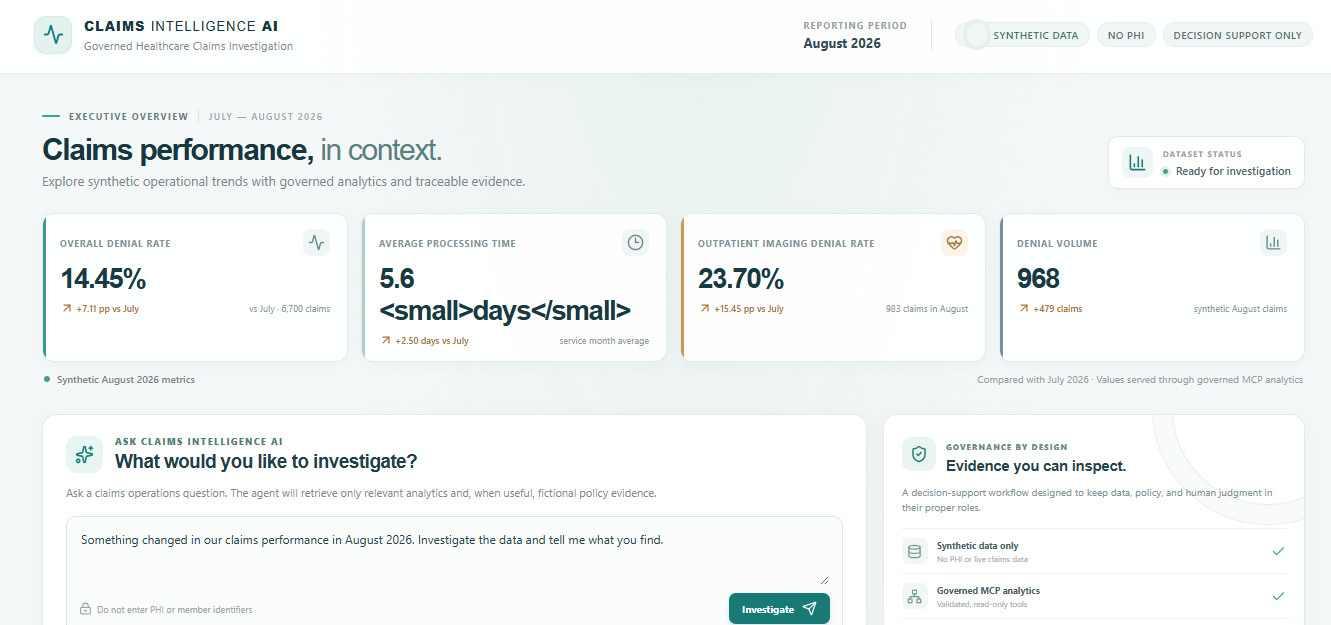
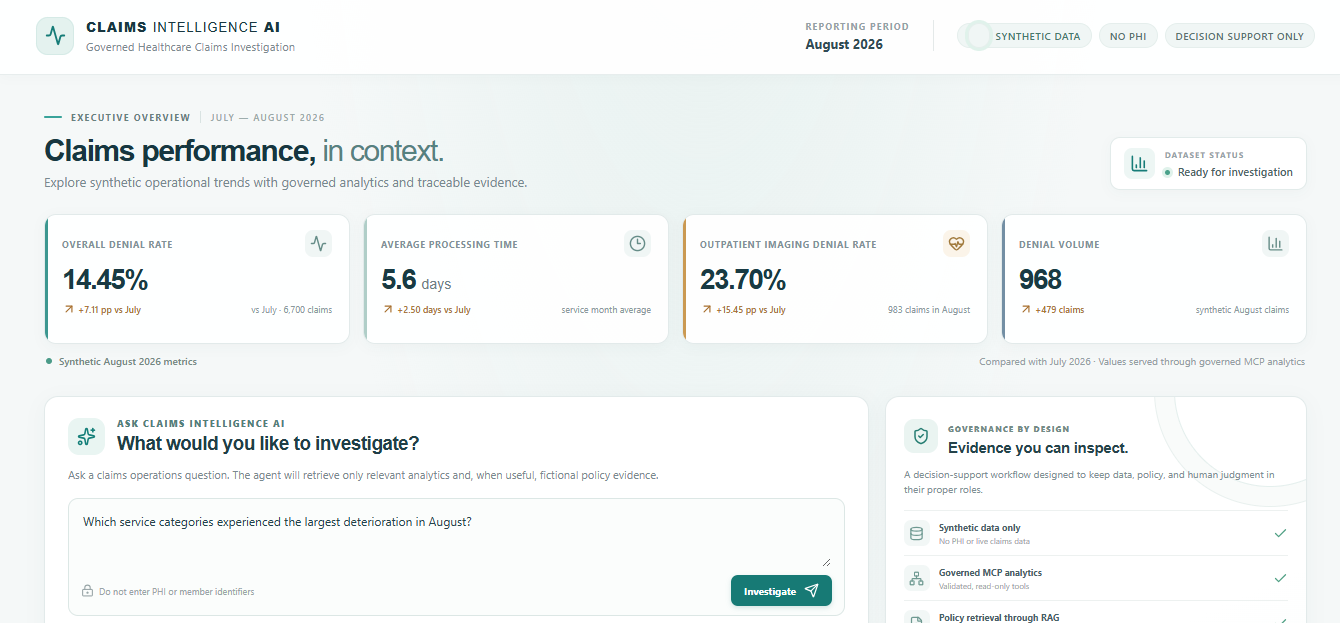
Refresh portfolio README and application screenshots

diff --git a/README.md b/README.md
@@ -1,149 +1,252 @@
 # Claims Intelligence AI
 
-## Purpose
+> **Governed healthcare claims investigation with agentic AI, MCP, RAG, deterministic analytics, and an observable evidence trail — built entirely with synthetic data.**
 
-Claims Intelligence AI is a portfolio project for governed healthcare analytics using entirely synthetic claims data. It includes a deterministic analytics layer, local MCP adapter, local policy RAG, an OpenAI tool-calling investigation agent, and a local React executive interface.
+Claims Intelligence AI is a portfolio demonstration of how AI can help healthcare operations teams investigate claims-performance questions without turning the model into an autonomous decision-maker. The application combines deterministic claims analytics, a governed Model Context Protocol (MCP) layer, retrieval-augmented generation (RAG) over fictional internal policy, an OpenAI tool-calling investigation agent, and a React executive interface.
 
-## Synthetic data and intended use
+The core design principle is simple: **AI can help assemble and interpret evidence, but consequential healthcare decisions remain with people.**
 
-All records generated by this project are fictional. Identifiers are synthetic; there are no names, exact dates of birth, addresses, contact details, government identifiers, medical record numbers, or real provider names/NPIs. Do not load real protected health information (PHI) into this repository or its future components.
+## What this project demonstrates
 
-This is not a clinical decision system and not an autonomous claims adjudication system. Data can support analysis of patterns, associations, and operational areas for investigation. It cannot establish fraud, abuse, medical necessity, improper clinical care, provider intent, or member fault.
+- Natural-language investigation of claims performance and denial trends.
+- Six governed, read-only MCP analytics capabilities backed by deterministic SQLite queries.
+- RAG over a fictional internal policy corpus with passage-level provenance.
+- Agentic tool selection across structured operational evidence and unstructured policy evidence.
+- Explicit separation of observed facts, interpretation, policy context, and evidence gaps.
+- An observable investigation trace without exposing private model reasoning.
+- Synthetic-data, no-PHI, aggregate-only, human-decision-authority guardrails.
 
-## Architecture direction
+## Executive experience
+
+The executive dashboard provides a business-first view of synthetic claims performance before an investigation begins. August 2026 metrics highlight denial rate, processing time, outpatient imaging denial rate, and denial volume, while the interface makes the synthetic-data and decision-support boundaries visible.
+
+![Claims Intelligence Executive Dashboard](docs/screenshots/dashboard-overview.png)
+
+## AI-assisted claims investigation
+
+Users can ask a claims-operations question in natural language. The investigation agent determines which governed capabilities are relevant, retrieves operational evidence through MCP, retrieves fictional policy passages through RAG when useful, and synthesizes the evidence into an executive-friendly response.
+
+The response intentionally distinguishes **observed operational facts** from **evidence-based interpretation** and identifies what the available evidence cannot establish.
+
+![AI Claims Investigation](docs/screenshots/agent-investigation.png)
+
+## Observable evidence and context
+
+The application is designed to avoid a black-box experience. Each investigation exposes an observable evidence path showing which governed capabilities were used, while keeping hidden chain-of-thought private.
+
+The UI can show validated MCP parameters, aggregate result previews, retrieved fictional policy passages, evidence gaps, and responsible-use boundaries. This provides a practical example of context engineering: supplying the model with the smallest relevant set of structured facts and policy evidence needed for the question rather than placing an entire database or policy corpus into model context.
+
+![MCP and RAG Context Trace](docs/screenshots/Context-trace.png)
+
+## Architecture
+
+```text
+                         ┌──────────────────────────────┐
+                         │   React / Vite Executive UI  │
+                         └──────────────┬───────────────┘
+                                        │ /api
+                         ┌──────────────▼───────────────┐
+                         │  Loopback Express API        │
+                         │  validation + orchestration  │
+                         └──────────────┬───────────────┘
+                                        │
+                         ┌──────────────▼───────────────┐
+                         │ Claims Investigation Agent   │
+                         │ OpenAI tool-calling loop     │
+                         └─────────┬───────────┬────────┘
+                                   │           │
+                          Structured           Unstructured
+                           evidence              evidence
+                                   │           │
+                    ┌──────────────▼───┐   ┌──▼────────────────┐
+                    │ Governed MCP     │   │ Policy RAG        │
+                    │ analytics tools  │   │ retrieval         │
+                    └──────────┬───────┘   └──┬────────────────┘
+                               │              │
+                    ┌──────────▼───────┐   ┌──▼────────────────┐
+                    │ Synthetic SQLite │   │ Fictional policy  │
+                    │ claims data      │   │ documents/index   │
+                    └──────────────────┘   └───────────────────┘
+```
+
+### Repository structure
 
 ```text
 data/                 Local generated SQLite database (ignored by Git)
-documents/            Reserved for future synthetic reference documents
+documents/            Fictional internal policy documents
 src/database/         Schema, SQLite connection, deterministic generator, validation
 src/tools/            Deterministic read-only analytics functions and verification
 src/mcp/              Local stdio MCP server and protocol verification client
-src/rag/              Fictional policy ingestion, embeddings, index, retrieval, and verification
-src/context/          Reserved for future context engineering
+src/rag/              Policy ingestion, embeddings, index, retrieval, and verification
 src/agent/            OpenAI tool-calling claims investigation agent and verification
 src/http/             Loopback-only API for dashboard metrics and investigations
 app/                  React/Vite executive investigation interface
-docs/                 Data and design notes
+docs/                 Data/design notes and portfolio screenshots
 ```
 
-SQLite is the current structured persistence layer. Policy RAG is a separate unstructured evidence path. Both are exposed to the agent through MCP analytics and governed policy search. The local API and React interface present the agent's result and observable evidence trace; they do not implement separate claims logic.
+SQLite is the structured persistence layer. MCP is the governed interface to operational analytics. RAG is a separate unstructured evidence path for fictional internal policy. The agent can select capabilities from both paths while keeping operational facts and policy evidence separately identifiable.
 
 ## Responsible AI boundaries
 
-- Use only the provided fictional, synthetic data in this project.
-- Treat observed relationships as associations that need investigation, not proof of cause or wrongdoing.
-- Keep humans responsible for review and decisions in any future workflow.
-- Do not make or recommend clinical, coverage, payment, fraud, provider-intent, or member-fault determinations from these example records.
+This project uses **fictional synthetic data only**. It is not a clinical decision system and is not an autonomous claims adjudication system.
 
-## Requirements and setup
+- Do not load real PHI, member identifiers, credentials, or live claims data into the demo.
+- Treat observed relationships as associations requiring investigation, not proof of causation or wrongdoing.
+- Keep humans responsible for clinical, coverage, payment, fraud, provider-intent, member-fault, and other consequential decisions.
+- Operational analytics are read-only and population/member outputs remain aggregated.
+- Retrieved policy passages are fictional internal examples, not CMS, Medicare, Medicaid, HIPAA, payer, legal, clinical, or regulatory requirements.
+- The observable trace records tool and evidence use; it does **not** expose private model reasoning or chain-of-thought.
 
-Requires Node.js and npm. Install dependencies:
+## Deterministic analytics layer
+
+`src/tools/analytics.ts` provides six read-only, parameterized analytics functions:
+
+- `getClaimsPerformance`
+- `getDenialAnalysis`
+- `getProviderPerformance`
+- `getCostUtilization`
+- `getAuthorizationAnalysis`
+- `getMemberPopulationImpact`
+
+The functions use allow-listed filters and return aggregated observations. They do not produce causal or wrongdoing conclusions. PMPM is intentionally not calculated because the synthetic dataset does not contain an enrollment-period/member-month denominator.
+
+Run the analytics verification suite with:
+
+```sh
+npm run analytics:verify
+```
+
+## Governed MCP analytics
+
+The local stdio Model Context Protocol server exposes exactly the six approved analytics functions to MCP-compatible applications. MCP provides a protocol boundary through which the investigation agent can discover and invoke governed capabilities without directly importing the database or analytics implementation.
+
+Inputs use strict schemas, unknown fields are rejected, and there is **no arbitrary SQL tool**. Database access remains read-only.
+
+```sh
+npm run mcp:server
+npm run mcp:verify
+```
+
+`mcp:verify` launches the MCP server, discovers its tools, exercises representative calls, compares results with direct deterministic analytics, and verifies that arbitrary SQL input is rejected.
+
+## Fictional policy corpus and RAG
+
+Six Markdown documents under `documents/` form the fictional internal operations policy corpus. Each is explicitly identified as:
+
+> **FICTIONAL POLICY — CREATED FOR SYNTHETIC PORTFOLIO DEMONSTRATION ONLY**
+
+RAG supplies relevant policy passages as a separate evidence source:
+
+```text
+Structured:   Claims Agent -> MCP -> deterministic analytics -> SQLite
+Unstructured: Claims Agent -> RAG retrieval -> fictional policy documents
+```
+
+Policy ingestion identifies document titles and section headings, chunks content within sections, and retains filename/title/heading provenance. The configured embedding model is `text-embedding-3-small`. The local vector index is stored at `vector-indexes/policy-index.json` and is excluded from Git.
+
+Retrieval embeds the question, computes cosine similarity locally, applies the configured similarity threshold, and returns only the top matching passages. Similarity is a ranking signal — not proof that a passage is authoritative or applicable.
+
+```sh
+npm run rag:index
+npm run rag:verify
+npm run rag:retrieve -- "What should happen when an authorization is pending?"
+```
+
+Rebuild the index after editing policy documents. Retrieved passages should always be inspected with their provenance before being used as decision support.
+
+## Claims investigation agent
+
+`src/agent/claims-agent.ts` implements an OpenAI Responses API tool-calling loop. At connection time, the agent discovers the MCP server tools and allows only the six approved analytics capabilities. Operational calls travel through MCP; `searchCompanyPolicies` remains a separate governed RAG capability.
+
+The agent labels operational evidence as `OP-*` and policy evidence as `POL-*`, returns evidence-backed conclusions and evidence gaps, and records an observable tool/context trace. Guardrails reinforce non-causal language, aggregate-only population evidence, human review, and the principle that provider or authorization patterns do not establish wrongdoing or cause.
+
+Run the synthetic investigation verification suite with:
+
+```sh
+npm run agent:verify
+```
+
+The suite exercises seven investigation scenarios, including claims performance, policy actions, service-category and authorization patterns, a provider accusation, AI decision authority, and an unrelated question. This command calls the OpenAI API and may incur API usage charges.
+
+## Local executive web application
+
+The React/TypeScript interface is a presentation layer over the governed agent. Vite serves the UI at `http://127.0.0.1:5180` and proxies `/api` to the Express server at `http://127.0.0.1:5181`. Both bind to loopback.
+
+The browser has no SQLite connection, OpenAI SDK, embedding credential, arbitrary SQL capability, or direct analytics import. Dashboard metrics flow through MCP. Investigation questions are validated server-side before reaching the agent. The browser receives the final response, evidence gaps, observable call information, limited aggregate previews, and only the policy passages actually retrieved.
+
+## Run locally
+
+### 1. Install dependencies
 
 ```sh
 npm install
 ```
 
-Generate or reset the reproducible database (seed `20260926`, 40,000 claim lines):
+### 2. Generate the reproducible synthetic database
 
 ```sh
 npm run db:generate
-# or explicitly reset the local database first
+```
+
+To explicitly reset it first:
+
+```sh
 npm run db:reset
 ```
 
-The default database is `data/claims.sqlite`. Set `DATABASE_PATH` to change it. Generated SQLite files are excluded from Git.
+The default database is `data/claims.sqlite`. Generated SQLite files are excluded from Git.
 
-Run TypeScript type checking and the validation report:
+### 3. Build the fictional policy index
+
+Copy `.env.example` to `.env`, set `OPENAI_API_KEY` locally, then run:
+
+```sh
+npm run rag:index
+```
+
+The `.env` file and generated vector index are excluded from Git. Keep queries and documents free of PHI, live claim records, credentials, and unnecessary personal data.
+
+### 4. Start the application
+
+```sh
+npm run dev
+```
+
+Open `http://127.0.0.1:5180`.
+
+API health check: `http://127.0.0.1:5181/api/health`
+
+Stop both services with `Ctrl+C`.
+
+> **Windows PowerShell note:** If PowerShell execution policy blocks `npm.ps1`, use `npm.cmd` instead, for example `npm.cmd run dev`.
+
+## Verification
+
+The project includes separate verification paths for the deterministic data layer, MCP interface, RAG retrieval, agent behavior, TypeScript, and production build.
 
 ```sh
 npm run typecheck
 npm run validate
+npm run analytics:verify
+npm run mcp:verify
+npm run rag:verify
+npm run agent:verify
+npm run build
 ```
 
-Validation reports row counts, month-level claim and denial metrics, denial categories, program comparisons, August provider concentrations, authorization-linked imaging outcomes, and foreign-key integrity.
+`validate` reports row counts, month-level claims and denial metrics, denial categories, program comparisons, August provider concentrations, authorization-linked imaging outcomes, and foreign-key integrity.
 
-## Deterministic analytics tools
+## Trust boundaries
 
-`src/tools/analytics.ts` exports six read-only, parameterized SQLite analytics functions: `getClaimsPerformance`, `getDenialAnalysis`, `getProviderPerformance`, `getCostUtilization`, `getAuthorizationAnalysis`, and `getMemberPopulationImpact`. The functions use allow-listed filters and return aggregated observations; denial rates in the tools are claim-based. They do not produce causal or wrongdoing conclusions. Member results are grouped aggregates, not individual records. PMPM is not calculated because the synthetic data has no enrollment periods or member-month denominator.
+- **Browser:** presentation only; no database or OpenAI credentials.
+- **Local API:** validates requests and orchestrates the existing governed agent.
+- **MCP:** sole operational analytics path for the agent and dashboard.
+- **RAG:** returns a limited number of fictional policy passages with provenance.
+- **Model context:** receives only relevant aggregate evidence and retrieved passages rather than the full database or policy corpus.
+- **Human authority:** remains responsible for consequential healthcare and claims decisions.
 
-Run `npm run analytics:verify` to exercise the tools and print monthly comparisons with observed facts separated from interpretation requiring additional evidence.
+## Intended use
 
-## Local MCP adapter
+This repository is a **portfolio demonstration of governed AI architecture for healthcare claims operations**. It is intended to show how agentic AI, MCP, RAG, deterministic analytics, context engineering, and responsible-AI controls can be combined into a practical decision-support experience.
 
-The local stdio Model Context Protocol (MCP) server exposes the six existing analytics functions to MCP-compatible applications. MCP provides a standardized interface through which an AI application can discover and invoke governed capabilities; it does not make the analytics or a model inherently smarter. The MCP handlers are thin adapters: they validate inputs, call the existing deterministic functions, and return structured results without implementing separate healthcare calculations.
-
-Calling a TypeScript function directly is simpler for code already running in this project. MCP adds a protocol boundary that lets a separate local AI application discover tool names, descriptions, schemas, and invoke them over stdio without coupling that application to the analytics module. The tradeoff is an additional server/client process and protocol layer.
-
-The server exposes exactly `getClaimsPerformance`, `getDenialAnalysis`, `getProviderPerformance`, `getCostUtilization`, `getAuthorizationAnalysis`, and `getMemberPopulationImpact`. Inputs use strict schemas and unknown fields are rejected; the adapter exposes no SQL tool. Database access remains read-only, and population results remain aggregated. The server requires no credentials or network access.
-
-To run the stdio server for an MCP host, configure the host to launch `node` with `dist/mcp/server.js` from the project directory. Build first with `npm run build`; the convenience command `npm run mcp:server` builds and starts it. Stdio is reserved for MCP messages, so the process does not print normal logs to stdout.
-
-Run `npm run mcp:verify` to launch the server as a child process, discover its tools, call each one through MCP, compare representative results with direct analytics calls, validate August outpatient imaging authorization statuses, and confirm arbitrary SQL input is rejected.
-
-## Fictional policy corpus and local RAG
-
-The six Markdown files under `documents/` form a fictional internal operations policy corpus. Every file carries the prominent disclaimer **FICTIONAL POLICY — CREATED FOR SYNTHETIC PORTFOLIO DEMONSTRATION ONLY**. These examples are not CMS, Medicare, Medicaid, HIPAA, payer, legal, clinical, or regulatory requirements and do not quote regulatory text. They contain generic procedures and do not describe any specific synthetic-data scenario.
-
-RAG supplies relevant policy passages as unstructured policy evidence. It is separate from the structured operational evidence path:
-
-```text
-Structured:   Future Agent -> MCP -> deterministic analytics -> SQLite
-Unstructured: Future Agent -> RAG retrieval -> fictional policy documents
-```
-
-MCP answers questions about observed claims metrics from SQLite. RAG retrieves internal policy text that may guide a human workflow. The local investigation agent can select from both paths, but keeps operational facts and fictional policy passages separately identified. Retrieved policy must not be represented as external regulatory fact.
-
-Ingestion reads Markdown documents in filename order, identifies the policy title and H2/H3 section headings, and chunks within sections at about 1,400 characters with a small overlap. Each chunk retains filename, title, heading, and passage text. The configured embedding model is OpenAI `text-embedding-3-small`; the official OpenAI embeddings interface returns a vector for each supplied text. [OpenAI embedding documentation](https://developers.openai.com/api/docs/guides/embeddings)
-
-The index is a local JSON vector file at `vector-indexes/policy-index.json`, excluded from Git. Retrieval embeds the question with the same model, computes cosine similarity locally, applies `RAG_MIN_SIMILARITY`, sorts by score, and returns up to `RAG_TOP_K` evidence passages with their provenance and scores. Defaults are top-K 4 and similarity threshold 0.35. The retrieval layer returns passages only; it does not synthesize an answer. Similarity is a ranking signal, not proof that a passage is authoritative or applicable.
-
-Copy `.env.example` to the ignored `.env` file and set `OPENAI_API_KEY` locally. The key is read only from the process environment or ignored `.env`; it is not written to source, documentation, logs, or the index. Index building sends fictional policy chunks to the embeddings API, and each retrieval request sends its query text to that API for embedding. Keep both documents and queries free of PHI, real claim records, credentials, and unnecessary personal data. API use requires an OpenAI credential and may incur usage charges.
-
-Commands:
-
-```sh
-npm run rag:index       # Rebuild embeddings and the local vector index
-npm run rag:verify      # Run policy retrieval checks and the unrelated-query threshold check
-npm run rag:retrieve -- "What should happen when an authorization is pending?"
-```
-
-Rebuild the index after editing any policy. Do not hand-edit generated vectors. Index metadata preserves fictional policy provenance so a future application can show the originating file and section. Retrieval can miss relevant text or rank a weak passage highly; users must inspect the quoted passage and its source before relying on it. No clinical, legal, coverage, payment, fraud, or abuse conclusion follows from retrieval alone.
-
-## Claims investigation agent
-
-`src/agent/claims-agent.ts` implements a command-line OpenAI Responses API tool-calling loop. At connection time, it discovers the existing MCP server's tools and allows only the six approved analytics names. Operational calls always travel through the local stdio MCP client; the agent does not import the analytics or database modules. `searchCompanyPolicies` is a separate governed capability that calls the RAG retriever and returns at most four matching passages above the configured threshold. The model chooses which evidence tools to call for each question.
-
-The agent labels operational evidence as `OP-*` and policy evidence as `POL-*`, returns cited conclusions and evidence gaps, and records a public tool/context trace. The trace contains tool names, arguments, row counts, policy sources, sections, and similarity scores; it excludes hidden model reasoning. The prompt and verification suite enforce non-causal language, human review, aggregate-only population evidence, and the boundary that provider or authorization patterns do not establish wrongdoing or cause.
-
-Run `npm run agent:verify` for seven synthetic investigation questions covering monthly claims performance, policy actions, service categories, authorization patterns, a provider accusation, AI decision authority, and an unrelated question. It calls the OpenAI Responses API and may incur API usage charges. Set `OPENAI_AGENT_MODEL` in the ignored `.env` to override the default `gpt-5.5`. The verification report records observable tool and evidence use, not chain-of-thought.
-
-## Local executive web application
-
-The React/TypeScript application is a presentation layer over the existing governed agent. Vite serves the interface at `http://127.0.0.1:5180` and proxies `/api` to the Express server at `http://127.0.0.1:5181`. Both services bind to loopback. The API exposes only a health check, an August dashboard metrics route, and a validated investigation route; it has no SQL or arbitrary tool endpoint.
-
-The dashboard obtains July/August headline metrics by calling `getClaimsPerformance` through the existing stdio MCP server. An investigation POST invokes `ClaimsInvestigationAgent`, which continues to choose between the six MCP analytics tools and `searchCompanyPolicies`. The browser receives the final answer, evidence gaps, observable call parameters, a small aggregate-only result preview, and only the policy passages actually retrieved. OpenAI credentials remain in the local server process and are not included in Vite's browser bundle. The trace shows tool/context activity without chain-of-thought.
-
-Start the local demo after installing dependencies and generating the database and policy index:
-
-```sh
-npm install
-npm run db:generate       # if data/claims.sqlite does not exist
-npm run rag:index         # if vector-indexes/policy-index.json does not exist
-npm run dev
-```
-
-Open `http://127.0.0.1:5180`. The API health endpoint is `http://127.0.0.1:5181/api/health`. Stop both services with Ctrl+C. The API port can be changed with `API_PORT` and the UI dev port with `UI_PORT`; defaults are loopback ports 5181 and 5180. These defaults avoid conflict with common local development ports 5173 and 5175.
-
-Run `npm run typecheck` for both server and browser TypeScript, and `npm run build` to compile the API and produce the Vite bundle under `dist/ui`. The portfolio verification commands remain `npm run validate`, `npm run analytics:verify`, `npm run mcp:verify`, `npm run rag:verify`, and `npm run agent:verify`.
-
-### UI architecture and trust boundaries
-
-- The browser has no SQLite connection, OpenAI SDK, embedding key, or direct analytics import. It can call only the local API routes.
-- Dashboard numbers are read through the existing MCP server. Custom questions are validated server-side before being passed to the existing investigation agent.
-- MCP remains the sole operational analytics path; RAG returns a limited set of fictional policy passages with filename, section, and similarity metadata. The policy corpus is never placed in the browser or model context wholesale.
-- Responses show observed operational facts separately from interpretation and evidence gaps. Expandable evidence panels expose validated parameters, aggregate metric previews, and retrieved fictional passages. No individual member rows or chain-of-thought are presented.
-- Synthetic data only, no PHI, read-only analytics, and human decision authority remain explicit. This demo does not make autonomous claims decisions.
-
-For portfolio screenshots, use the August executive KPI row and a completed investigation such as the August performance question. Capture the answer cards alongside the expanded evidence path, then capture the separate fictional policy evidence panel for a policy question. Keep the synthetic-data and decision-support labels visible in screenshots; do not use real member or provider information.
-
-
+It is not intended for production healthcare use without additional security, privacy, regulatory, clinical, operational, infrastructure, and model-risk controls appropriate to the deployment environment.
